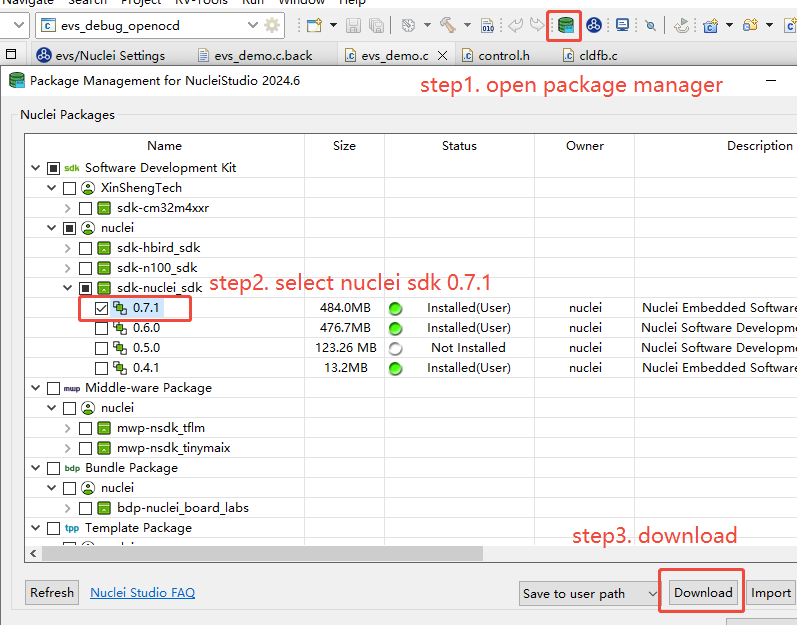
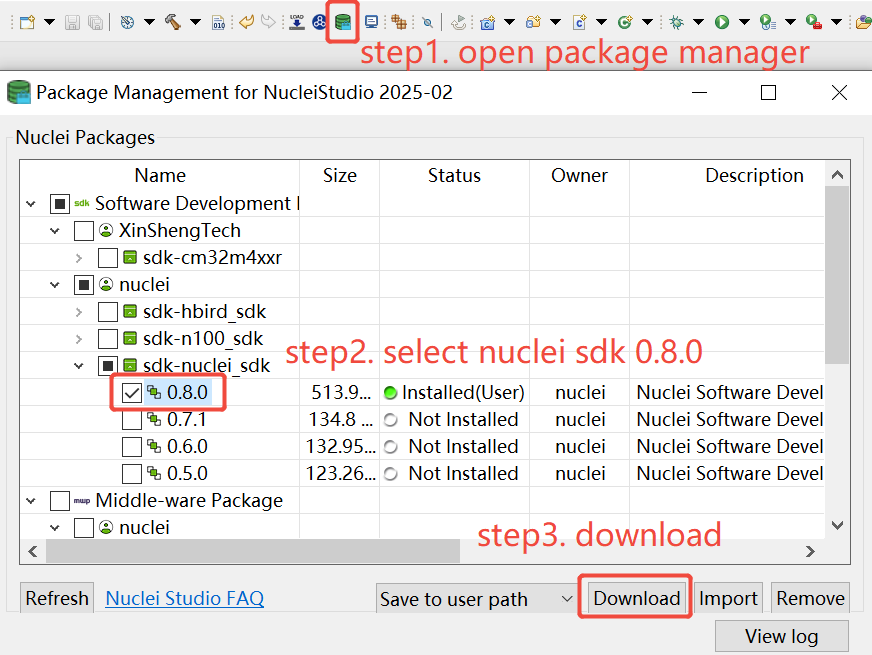
doc: update README.md for nsdk 0.8.0

Changed region(s): [[0.0, 0.0, 1.0, 1.0]]

diff --git a/README.md b/README.md
@@ -8,17 +8,17 @@ We have done TFLM NN kernel optimized implementations(main p/v extension) for Nu
 
 TFLM has been ported to Nuclei RISC-V Processor and Nuclei SDK, you can evaluate it in Nuclei SDK and also in official TFLM build system.
 
-- If you want to use it in directly TFLM build system, please check this repo: https://github.com/Nuclei-Software/tflite-micro/tree/nuclei/nsdk_0.7.1
+- If you want to use it in directly TFLM build system, please check this repo: https://github.com/Nuclei-Software/tflite-micro/tree/nuclei/nsdk_0.8.0
 - If you want to use it in Nuclei SDK or Nuclei Studio as a software component, you can follow the following steps:
 
 **Here are two ways to use Nuclei SDK TFLM component:**
 
-1. Use **Nuclei SDK 0.7.1** in terminal
-2. Use **Nuclei Studio IDE 2024.06**
+1. Use **Nuclei SDK 0.8.0** in terminal
+2. Use **Nuclei Studio IDE 2025.02**
 
 ### Use TFLM in Terminal
 
-1. Get Nuclei SDK (v0.7.1) from https://github.com/Nuclei-Software/nuclei-sdk/releases/tag/0.7.1
+1. Get Nuclei SDK (v0.8.0) from https://github.com/Nuclei-Software/nuclei-sdk/releases/tag/0.8.0
 
 2. Get **tflm** zip package from https://github.com/Nuclei-Software/npk-tflm, unzip it and put under  the *Components* folder of **$NUCLEI_SDK_ROOT**.
 
@@ -148,15 +148,15 @@ DLM_MEMORY_SIZE = 0x800000;
 
 ### Use TFLM in Nuclei Studio IDE
 
-1. Download Nuclei Studio IDE 2024.06 from https://www.nucleisys.com/download.php
+1. Download Nuclei Studio IDE 2025.02 from https://www.nucleisys.com/download.php
 
-   > Refer to the [Nuclei IDE User Guide](https://download.nucleisys.com/upload/files/doc/nucleistudio/Nuclei_Studio_User_Guide.202406.pdf) if necessary.
+   > Refer to the [Nuclei IDE User Guide](https://download.nucleisys.com/upload/files/doc/nucleistudio/NucleiStudio_User_Guide.202502.pdf) if necessary.
 
 2. Open the Nuclei Studio IDE
 
 3. Download the zip package of Nuclei SDK
 
-   > Make sure the version of the SDK should be 0.7.1.
+   > Make sure the version of the SDK should be 0.8.0.
 
    ![install_sdk](doc/images/install_sdk.png)
 
